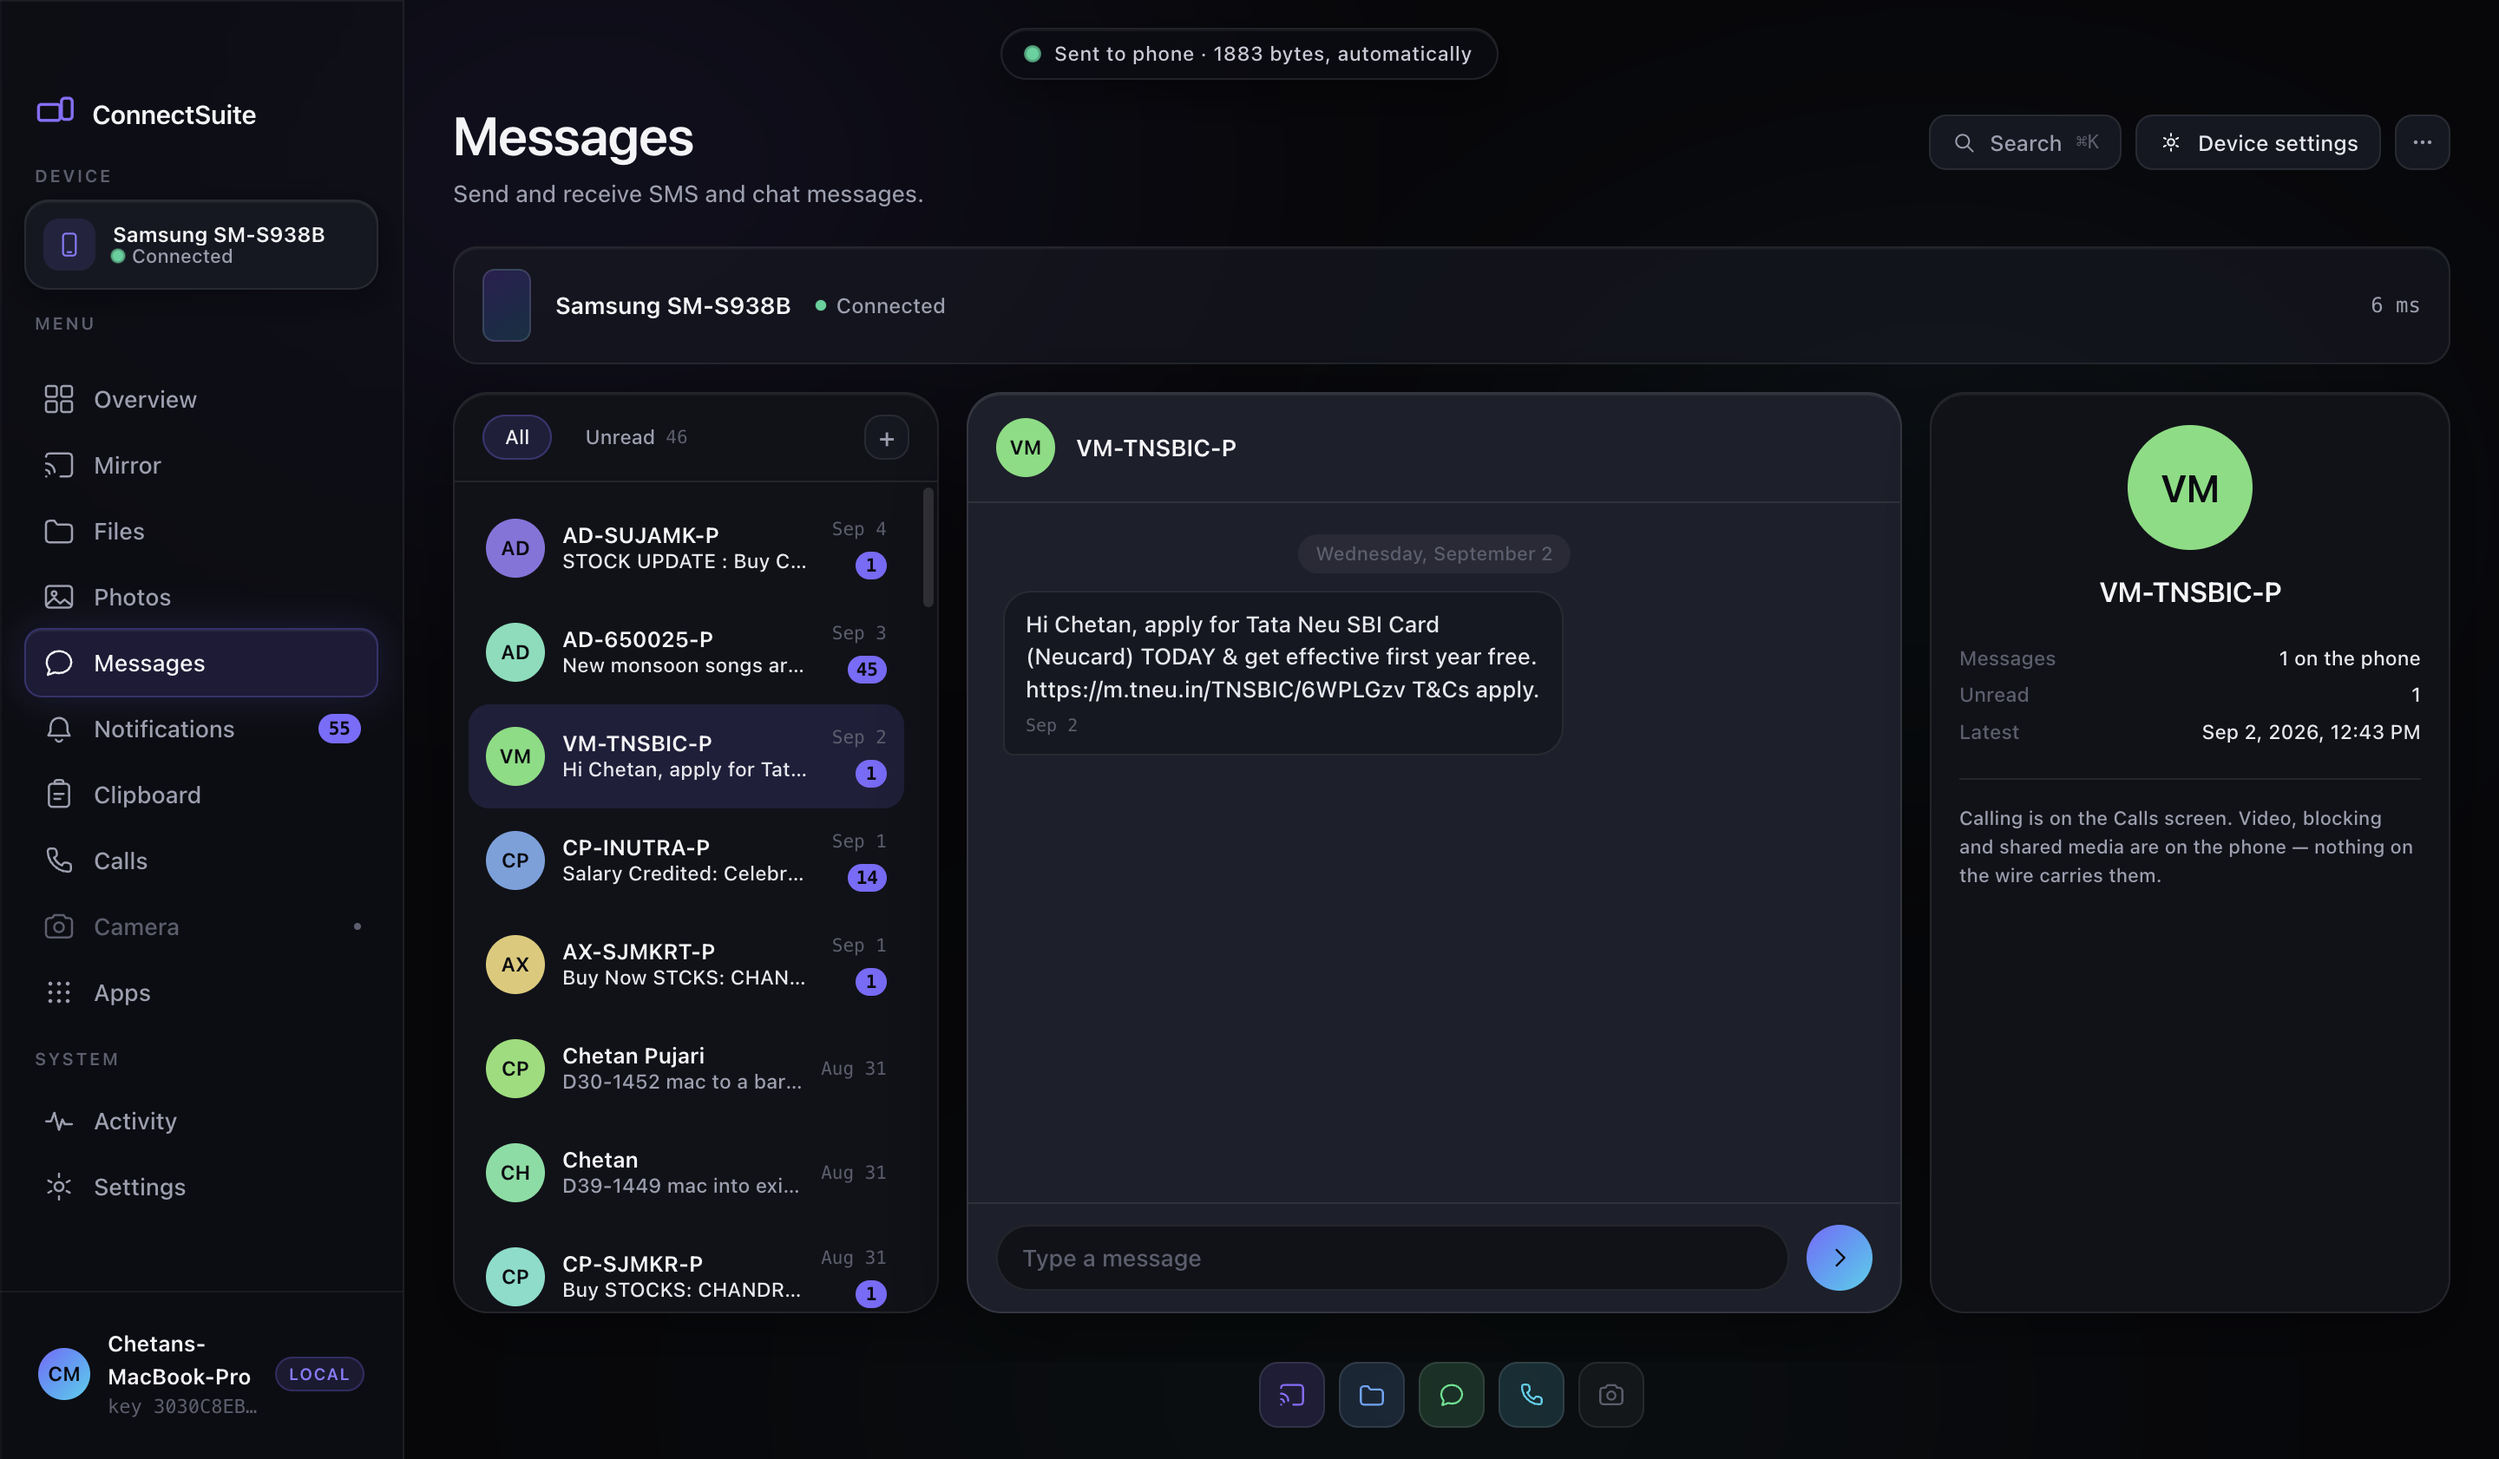
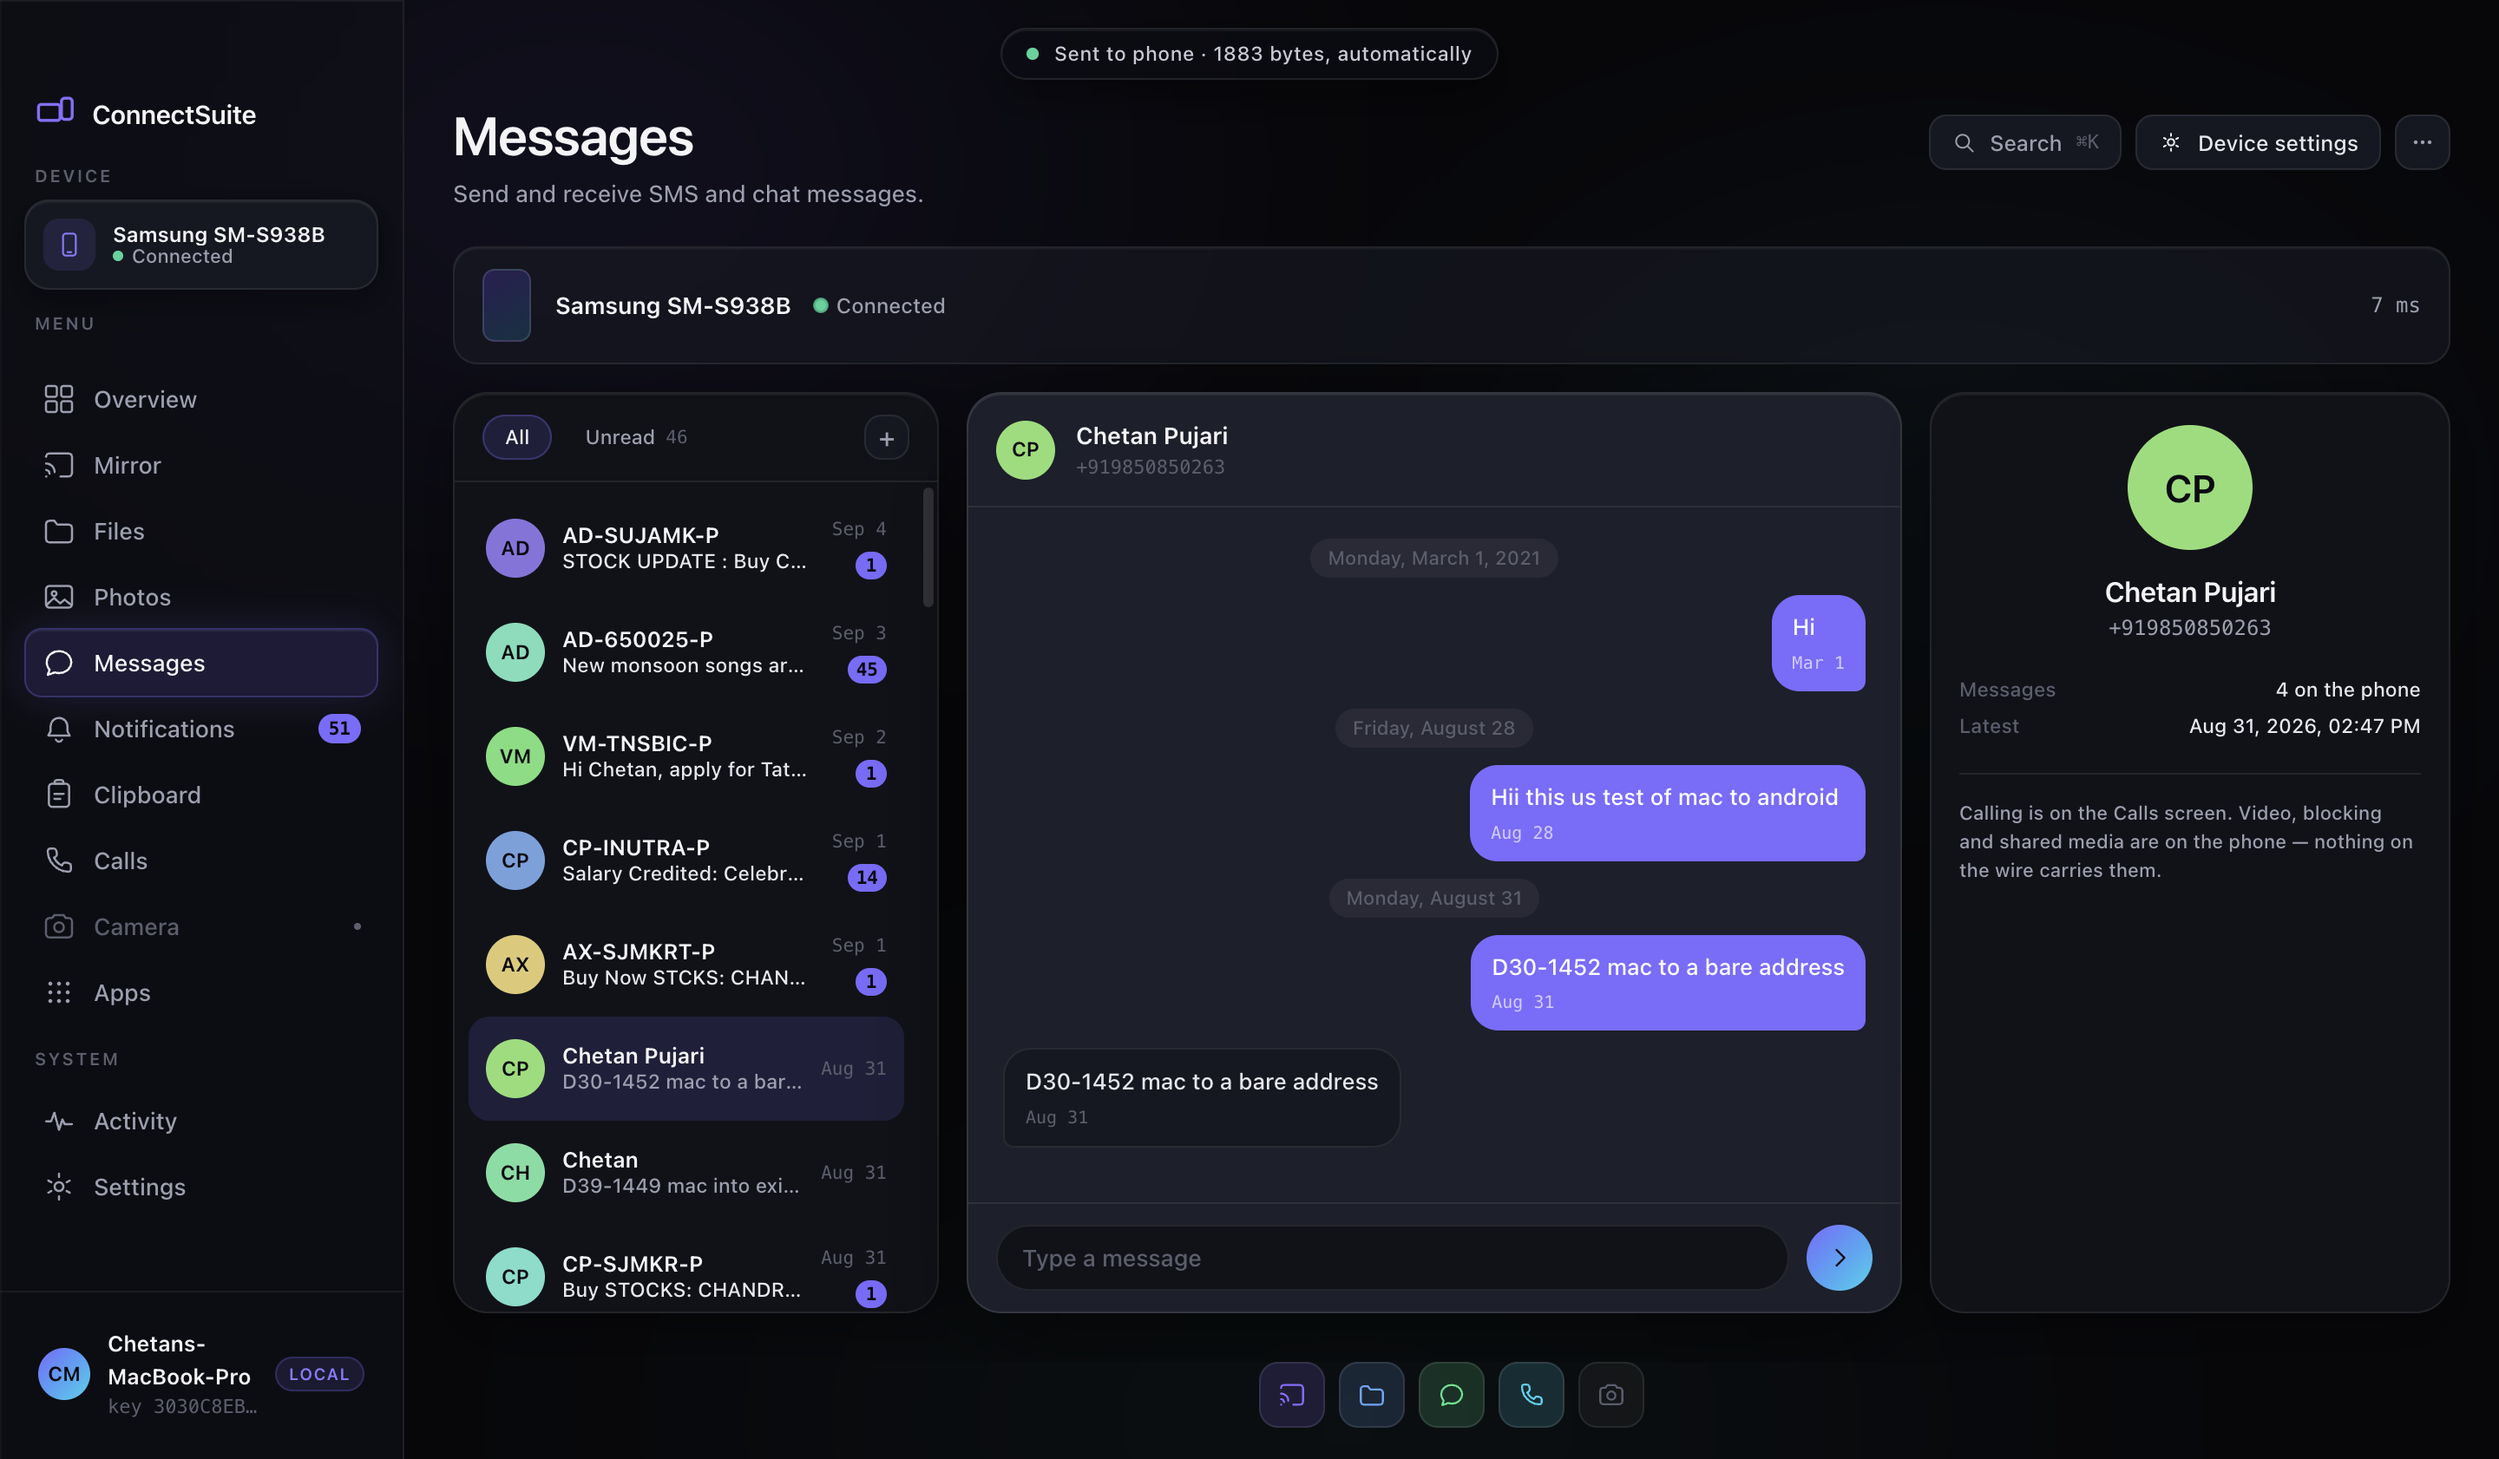
RESUME.md: Messages, and where Contacts went

diff --git a/docs/RESUME.md b/docs/RESUME.md
@@ -1,4 +1,4 @@
-# Resume here — written 2026-09-05, end of the design-pass sitting
+# Resume here — written 2026-09-05, end of the design-pass sitting (Messages added later the same day)
 
 > A state report, not a note to myself. Written to be handed to someone who was not here.
 
@@ -20,10 +20,11 @@ against the design at the real display size.
 | **Settings** — 16px gap, 38px rail rows, 19px titles, a border that no longer shifts the rows below it | columns **200 / 583 / 320**; `settings-compare.png` |
 | **Overview** — Device status moved to the design's column, two truncation defects closed | `.quick-sub` truncated **5/8 → 0/8**, `.recent-detail` **4/4 → 0/5**; `overview-compare.png` |
 | **Clipboard**, re-diffed — already matching, and two of its numbers were being overridden | `1fr 340px`, 36px badges, 28px pills; `clipboard-compare.png` |
+| **Messages**, rebuilt to three columns — thread list with avatars and previews, chat with bubbles and date separators, a composer, and the person card | `280 / 539 / 300`, 60px rows, 34px/72px discs; previews **50 with text / 0 at zero height**; `messages-compare.png` |
 | **Card stagger** — the design's `float-in`, which had never been built | five panes opt in; keyed to `.page.route-in` so it replays per navigation |
 | **The identity column** — accent, `--live`, `--destructive`, `--radius-panel`, `--radius-media` | counted out of the design file's own literals: `#7c6bff` ×34, `rgb(139,…)` **zero** |
 
-**Tests:** Mac **555** (`cd desktop && npm test`), from 514. Phone untouched.
+**Tests:** Mac **565** (`cd desktop && npm test`), from 514. Phone untouched.
 
 **Three new instruments, all in the repo**: `scripts/shot.mjs` (named in an evidence README since
 the last design pass and did not exist), `scripts/design-shot.mjs`, `scripts/compare-shot.mjs`.
@@ -32,6 +33,9 @@ Each refuses rather than writing a file it cannot vouch for.
 ## 2 · Committed
 
 ```
+95495c4  The card sweep poisoned itself, and one throw was enough
+e546b8b  Messages: the design's three columns, and defect 93 — fifty invisible previews
+34185c9  RESUME.md: the design-pass sitting, as a handoff
 9dda4b5  The sweep was scrolling the app as it measured, and its published number is corrected
 2a9f846  Defect 92: eleven references to four custom properties that do not exist
 7f62b2a  Defect 91: the frame was a scroll port, and the Clipboard re-diff
@@ -65,16 +69,24 @@ there and not in `39e4b40`.
 
 ## 4 · What needs your hands, and why
 
-**1. The vocabulary decision — still the blocking item, and it grew by one.**
-`docs/empty-and-failure-states.md` has 83 sentences. This sitting added **one new unratified
-sentence**, on the Photos detail card, replacing three controls the wire cannot serve:
+**1. The vocabulary decision — still the blocking item, and it grew by two.**
+`docs/empty-and-failure-states.md` has 83 sentences. Two new unratified ones were added, both
+replacing controls the wire cannot serve:
 
-> *"Sharing, wallpaper and deleting are on the phone. Nothing on the wire carries them."*
+> Photos: *"Sharing, wallpaper and deleting are on the phone. Nothing on the wire carries them."*
+>
+> Messages: *"Calling is on the Calls screen. Video, blocking and shared media are on the phone —
+> nothing on the wire carries them."*
 
-It is deliberately the **same shape** as Calls' existing *"Mute, speaker and keypad tones are on the
-phone. Nothing on the wire carries them."* rather than a fourth new grammar. Nothing else in the 83
-fitted. Read the two together and decide whether the shape is the house style or whether both should
-change.
+Both are deliberately the **same shape** as Calls' existing *"Mute, speaker and keypad tones are on
+the phone. Nothing on the wire carries them."* rather than two new grammars. That makes **three uses
+of one sentence pattern**, which is either a house style or a rut — your call, not mine. Nothing
+else in the 83 fitted.
+
+**Two diagnostic strings were deleted outright** and need no replacement, but you should know they
+are gone: Messages' *"50 conversations, 2 showing a contact name, 586 unread…"* and Contacts'
+*"Sorted by name, which is the only order a book can be read in."* Both were facts about our
+implementation on a screen a user reads.
 
 **2. Defect 89 — your phone's deleted photographs are listed as an ordinary album.**
 `Android/.Trash/com.sec.android.gallery3d/…/WhatsApp Images` is one of four buckets whose leaf
@@ -111,8 +123,8 @@ recalled:
 
 1. **Apply the vocabulary once it is decided.** Unchanged from the last handoff and now one sentence
    larger. Every pane at once, in one pass — the value is in their agreeing.
-2. **The remaining panes have not been diffed against the design this sitting**: Mirror, Files,
-   Messages, Notifications, Contacts, Apps, Activity. Four of the five defects found tonight were
+2. **The remaining panes have not been diffed against the design**: Mirror, Files, Notifications,
+   Apps, Activity. Four of the five defects found tonight were
    app-wide (the accent, the button floor, the frame, the orphan tokens) and are already fixed
    everywhere; what is left for those panes is their own layout. `scripts/shot.mjs --screen=<id>`
    and `scripts/design-shot.mjs --page=<id>` make each one about ten minutes.
@@ -133,7 +145,25 @@ recalled:
 - Nothing was force-stopped, nothing was uninstalled, and the phone's `Send to Mac` switch is as you
   left it.
 
-## 8 · The four findings worth carrying past this repo
+## 7b · Messages, and where Contacts went
+
+The pane was rebuilt to the canvas: three columns at `280px 1fr 300px`, 60px thread rows with
+avatars, **previews** and timestamps, a chat panel with asymmetric bubbles and date separators, a
+composer, and a person card.
+
+**Contacts is not in the right column any more, and the answer to "where should it live" is
+definite.** There is no `contacts` screen in `navModel`; the design's sidebar has no Contacts row;
+the design's third column is the open conversation's person. A directory already has a built home —
+the **Calls pane's Contacts tab**, over the same `contacts.list`, where picking someone fills the
+dialler. So the directory moved into **New conversation**, where searching by name is the verb you
+are actually performing, and the palette's *Contacts* row points at Calls.
+
+**The filter tabs are `All` / `Unread`, not the design's `All` / `SMS` / `Chat`.** `sms.threads`
+carries no kind — `kind` exists only per *message* — so an SMS tab would mean opening all fifty
+conversations to label the list, and *Chat* means RCS, which this app does not implement. `unread`
+is on every thread row, so that tab is real.
+
+## 8 · The five findings worth carrying past this repo
 
 Each is in `docs/testing.md` with its measurement; these are the sentences.
 
@@ -149,6 +179,12 @@ Each is in `docs/testing.md` with its measurement; these are the sentences.
    not, from one misspelling.
 4. **`overflow: hidden` still makes an element a scroll port.** It removes the scrollbar, which is
    the thing that would have told you.
+5. **A column flex container with a constrained height shrinks its children**, and the text inside
+   them goes first — fifty SMS previews were present, correct and invisible for a whole phase. The
+   sharper half is that **the properties you can vary are not necessarily the ones responsible**:
+   varying the row changed the symptom, so the row looked like the cause, and only rebuilding the
+   whole structure separated them. The first written-down mechanism was wrong and was caught by
+   insisting the new guard go red first.
 
 And one about instruments, which cost the most time tonight: **three of the five defects were found
 by asking a different question of the running app, not by looking at it** — *which rules declare a
